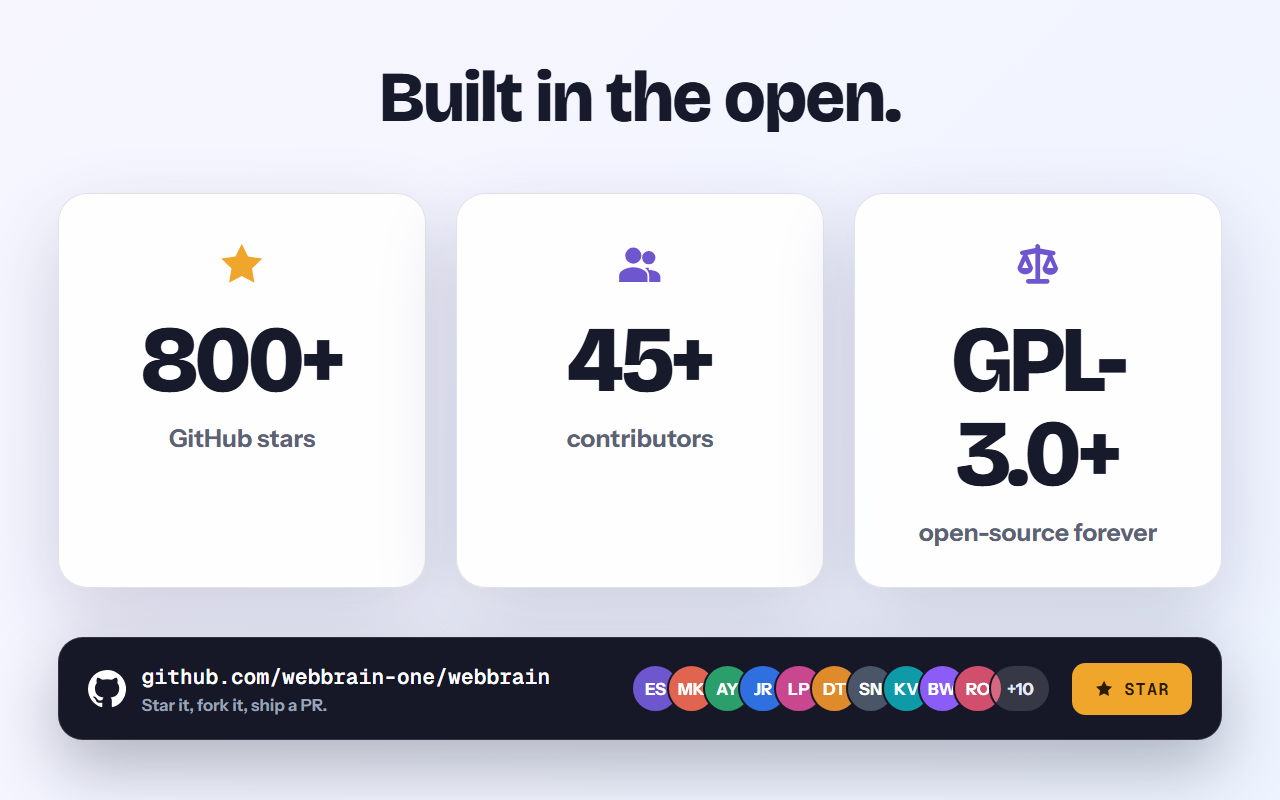
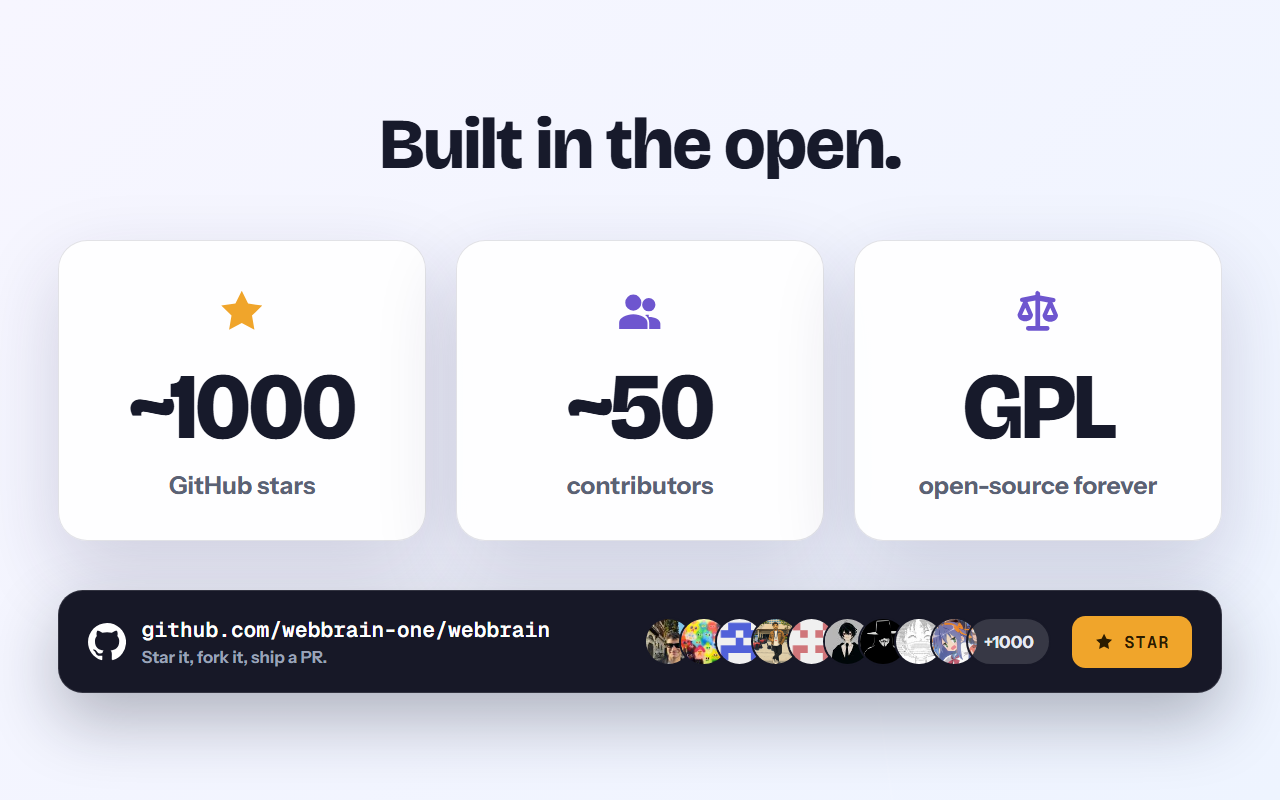
Update social proof artwork

diff --git a/assets/webstore-explainer-2026/README.md b/assets/webstore-explainer-2026/README.md
@@ -40,7 +40,7 @@ Files (1280×800):
 - 04-any-llm.png: Model picker, cropped to the provider dropdown
 - 05-plan-before-act.png: Plan review with Approve/Adjust before actions run
 - 06-launch-offer.png: WebBrain Cloud $5/mo (reg. $8), Save 35%
-- 07-social-proof.png: 700+ GitHub stars, 40+ contributors, GPL-3.0+ — repo bar with contributor avatars
+- 07-social-proof.png: ~1000 GitHub stars, ~50 contributors, GPL — repo bar with contributor avatars
 
 Light-background alternates of the two dark slides (originals kept, use whichever fits the gallery):
 - 01-hero-light.png
@@ -50,7 +50,7 @@ Both come from the same `hero(light)` / `planScene(light)` functions, so edits a
 dark and light together. In the light plan card the panel goes white and the accent green
 darkens for contrast against white button text.
 
-Star/contributor counts are hardcoded in `proofScene()`; bump them there when they go stale. The avatar initials are decorative, not real contributor handles.
+Star/contributor counts are hardcoded in `proofScene()`; bump them there when they go stale. The contributor avatars are a 2026-08-27 snapshot of human GitHub contributors, with `esokullu` first; bot, automation, AI-agent, and project-brand accounts are excluded.
 
 Slide 07 is appended after the offer to keep the existing filenames stable. If proof-then-price reads better, swap the last two entries in the `scenes` array and rename the two PNGs.
 
